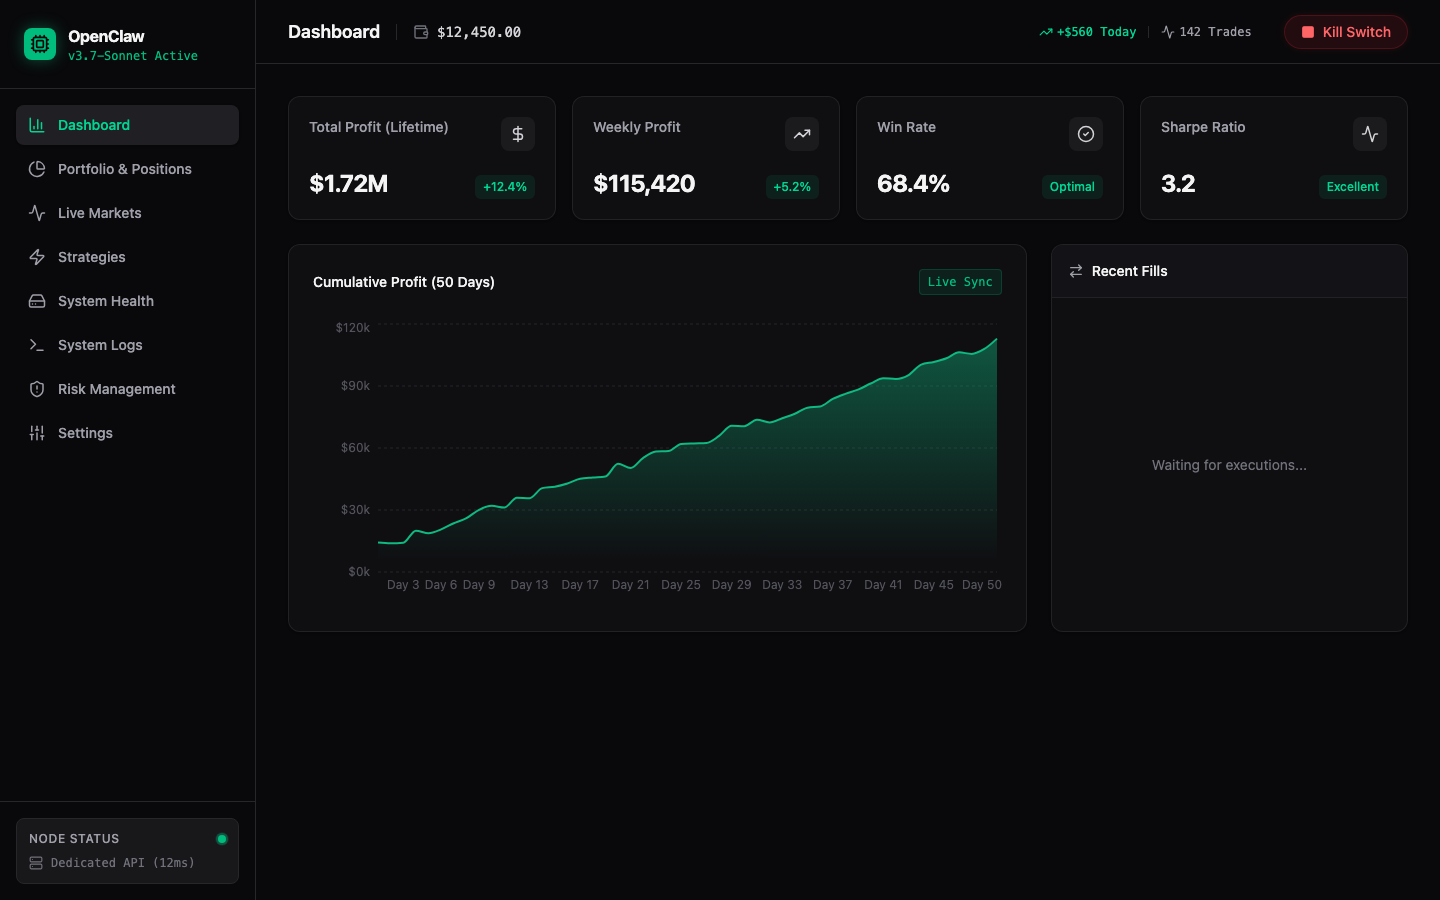
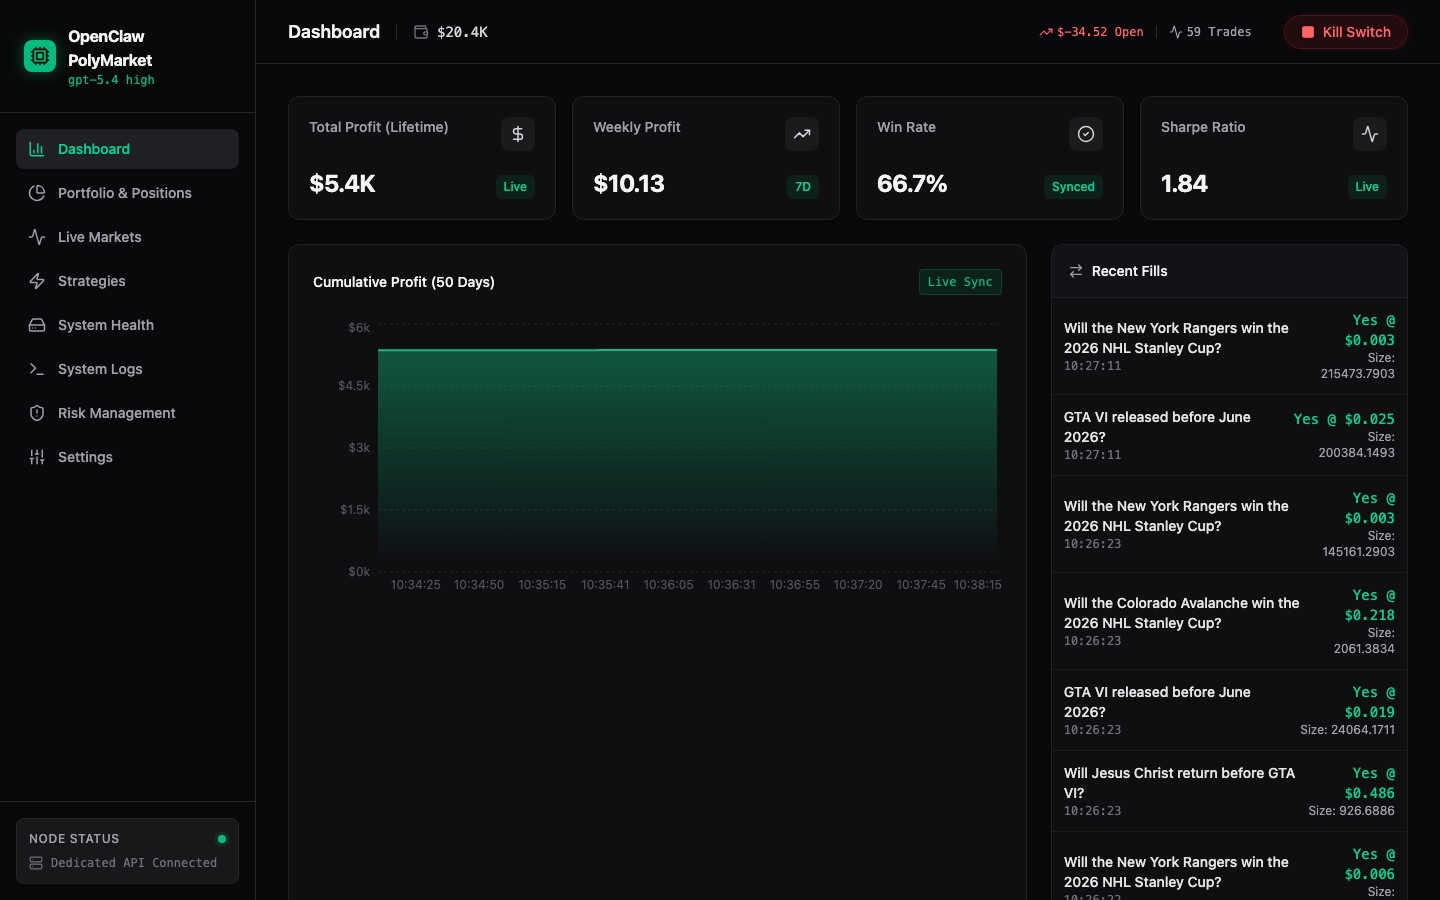
Refresh README screenshots

diff --git a/README.md b/README.md
@@ -1,14 +1,18 @@
-<div align="center">
-<img width="1200" height="475" alt="GHBanner" src="https://github.com/user-attachments/assets/0aa67016-6eaf-458a-adb2-6e31a0763ed6" />
-</div>
+![OpenClaw PolyMarket Dashboard](docs/screenshots/dashboard.png)
 
-# coke-polymarket
+# OpenClaw PolyMarket
 
 项目已拆分为前后端目录：
 
 - `frontend/`: Vite + React + TypeScript 前端
 - `server/`: Express + TypeScript 后端（MySQL 可选）
 - `docs/`: 设计与技术方案文档
+
+当前默认执行模式是实时行情驱动的 `paper trading`:
+
+- 市场数据来自 Polymarket 实时接口
+- 策略成交和资金使用本地模拟账户
+- 前端包含页面级和模拟交易级 E2E 测试
 
 ## 前端运行
 
@@ -41,13 +45,17 @@
 
 ## Screenshots
 
-### Dashboard
+### Portfolio
 
-![Dashboard](docs/screenshots/dashboard.png)
+![Portfolio](docs/screenshots/portfolio.png)
 
 ### Live Markets
 
 ![Live Markets](docs/screenshots/live-markets.png)
+
+### Settings / Paper Trading
+
+![Settings / Paper Trading](docs/screenshots/settings-paper-trading.png)
 
 ### System Health
 
